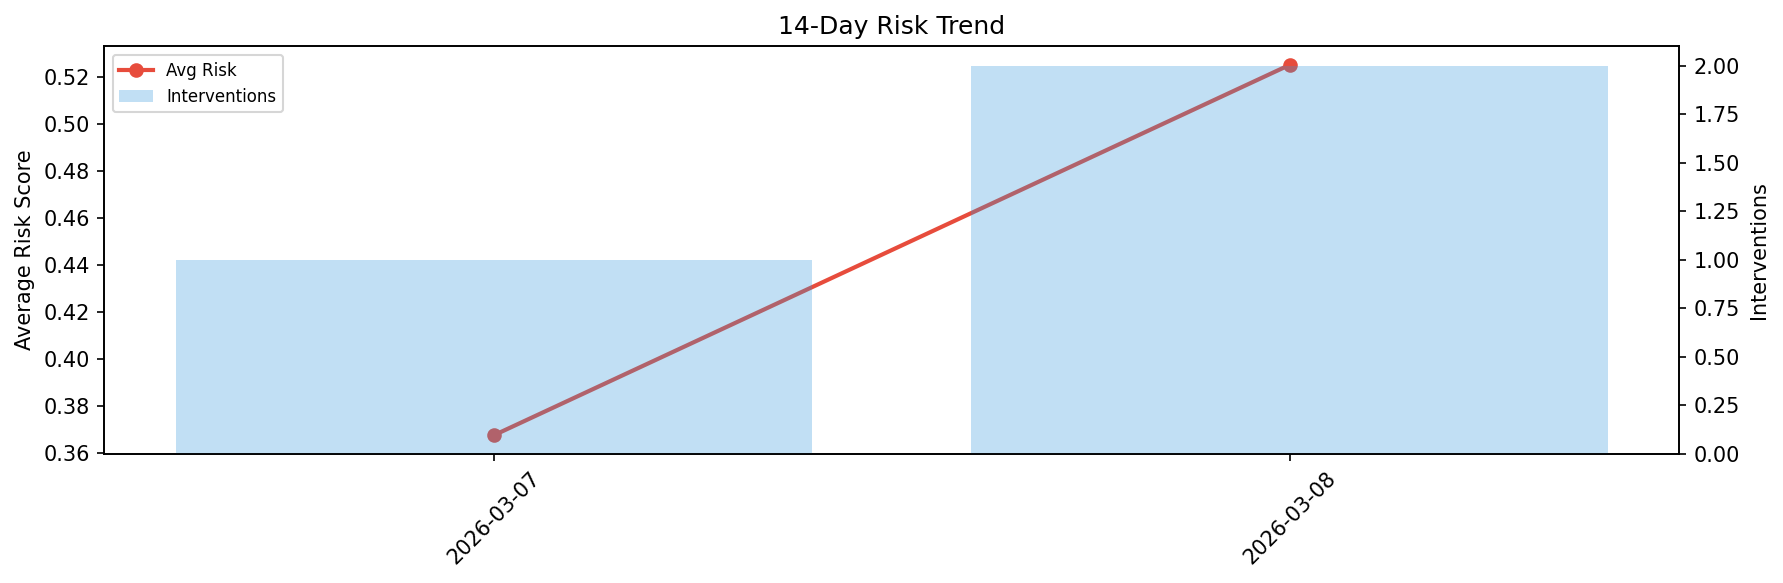
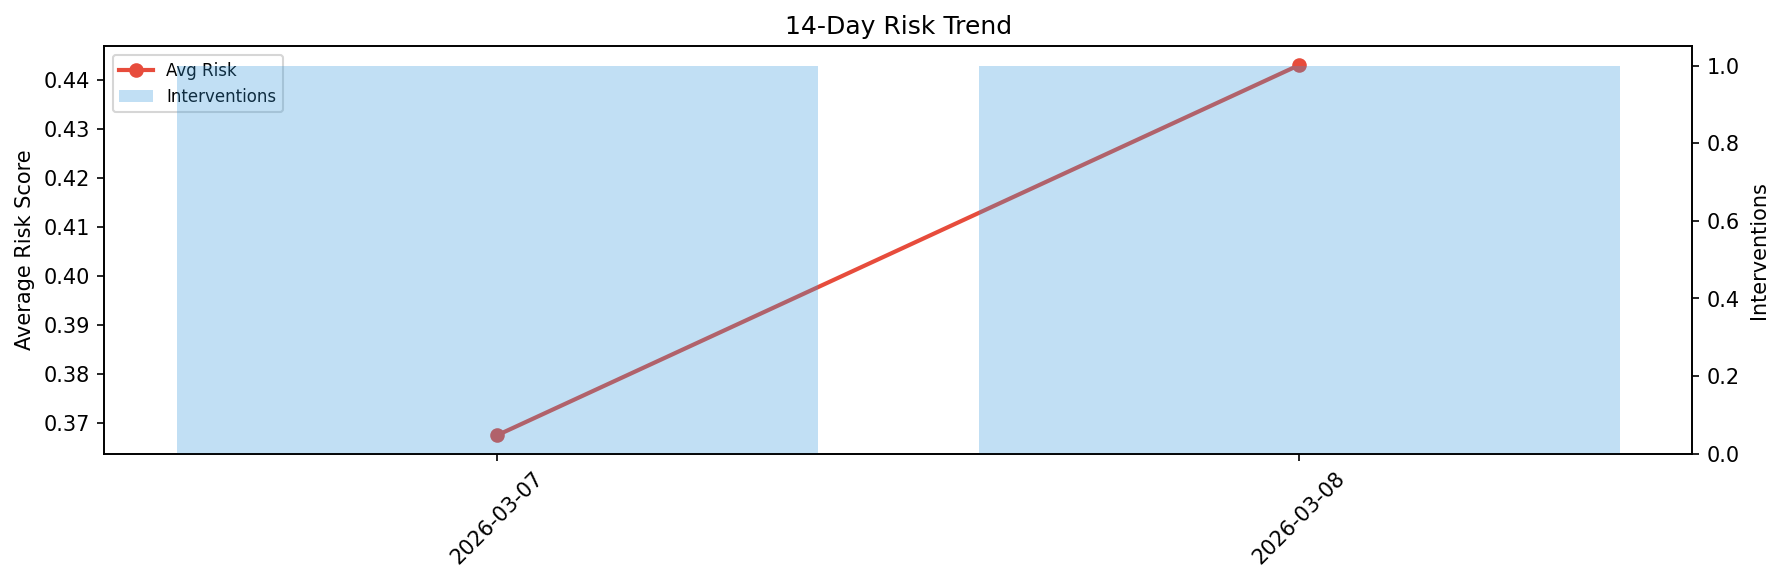
agent-improvement: daily cycle 2026-03-08T20:41

diff --git a/logs/2026-03-08.md b/logs/2026-03-08.md
@@ -1,6 +1,6 @@
 # Agent Improvement Report — 2026-03-08
 
-**Cycle ID:** `a98c5dc1` | **Avg Risk:** 0.5252 | **Interventions:** 2/4
+**Cycle ID:** `70abc149` | **Avg Risk:** 0.4431 | **Interventions:** 1/4
 
 ![Dashboard](2026-03-08_dashboard.png)
 
@@ -10,18 +10,18 @@
 
 | Domain | Risk Score | Decision | Alerts |
 |--------|-----------|----------|--------|
-| code_review | 0.4394 | monitor | none |
-| incident_response | 0.6107 | intervene | severity |
-| data_pipeline | 0.6354 | intervene | freshness, volume_anomaly |
-| deployment | 0.4153 | monitor | none |
+| code_review | 0.5646 | monitor | duplication, coverage |
+| incident_response | 0.6039 | intervene | mttr |
+| data_pipeline | 0.1742 | monitor | none |
+| deployment | 0.4296 | monitor | rollback_rate |
 
 ## Delta vs Yesterday
 
 | Domain | Today | Yesterday | Change |
 |--------|-------|-----------|--------|
-| code_review | 0.4394 | 0.4564 | 📉 -3.7% |
-| incident_response | 0.6107 | 0.1261 | 📈 384.3% |
-| data_pipeline | 0.6354 | 0.2511 | 📈 153.0% |
-| deployment | 0.4153 | 0.637 | 📉 -34.8% |
+| code_review | 0.5646 | 0.4564 | 📈 23.7% |
+| incident_response | 0.6039 | 0.1261 | 📈 378.9% |
+| data_pipeline | 0.1742 | 0.2511 | 📉 -30.6% |
+| deployment | 0.4296 | 0.637 | 📉 -32.6% |
 
 **Refinement:** `{'adjustment': 'maintain', 'trend': 'improving', 'window': 4}`
